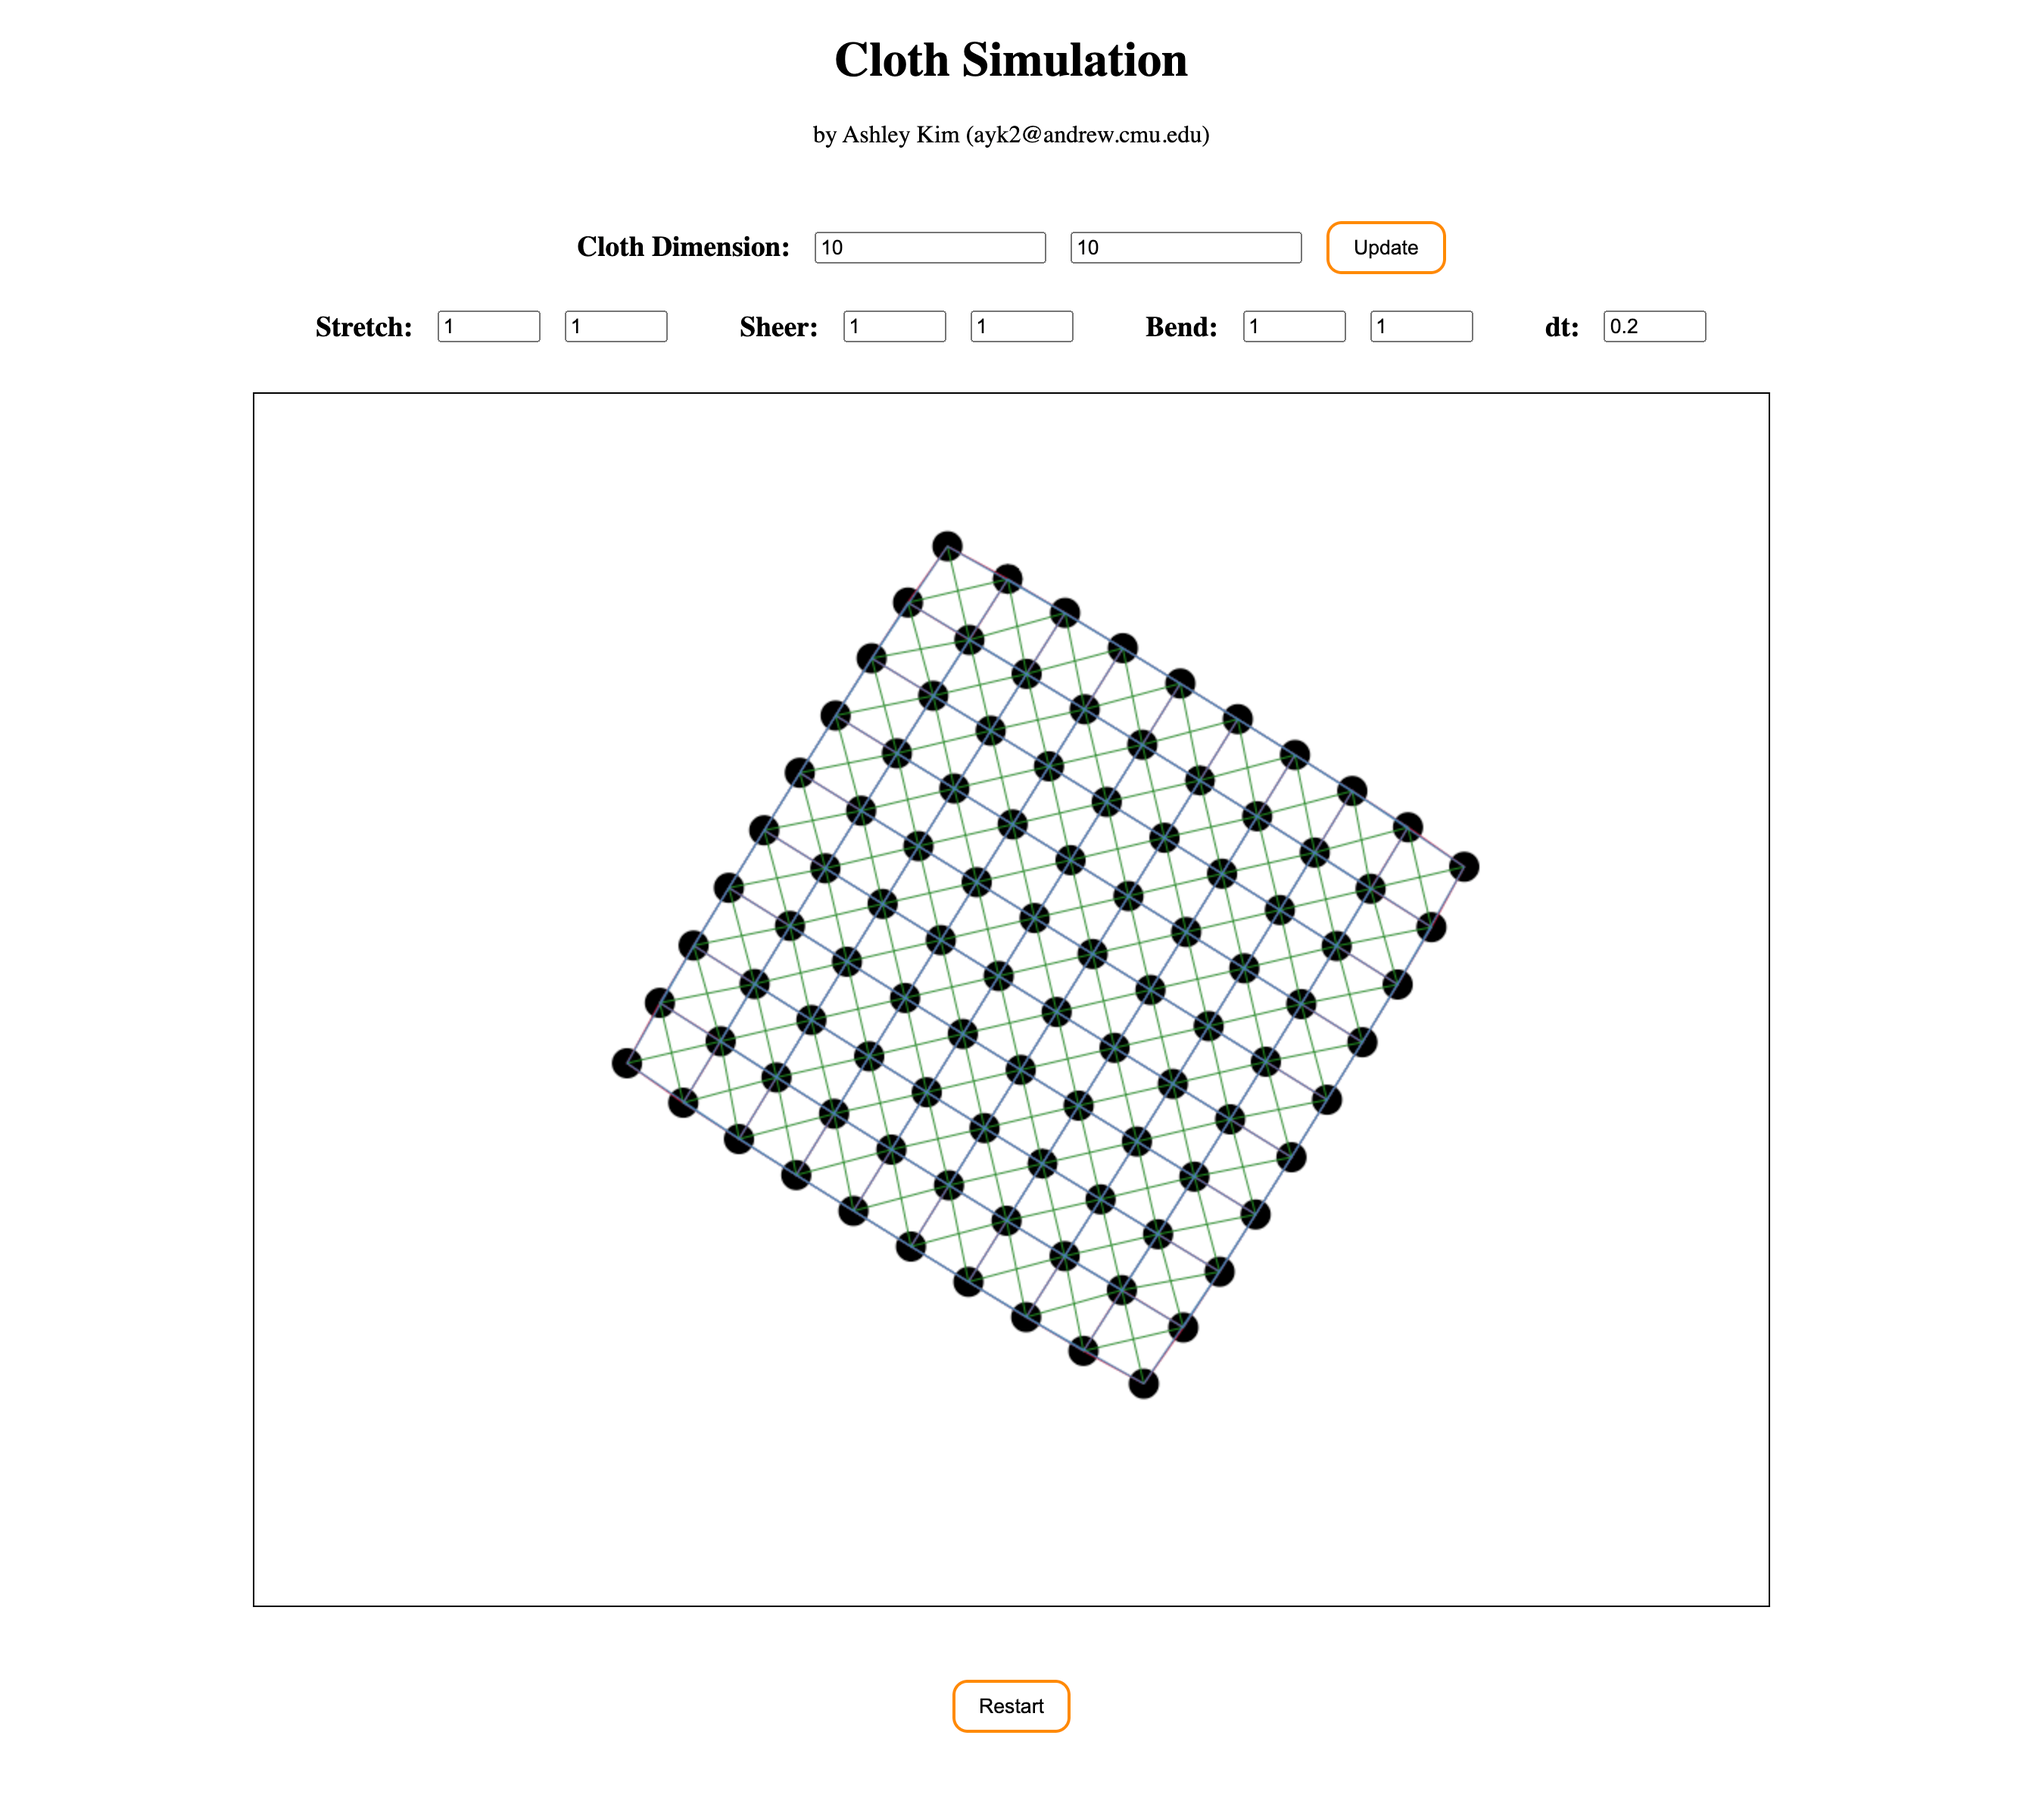
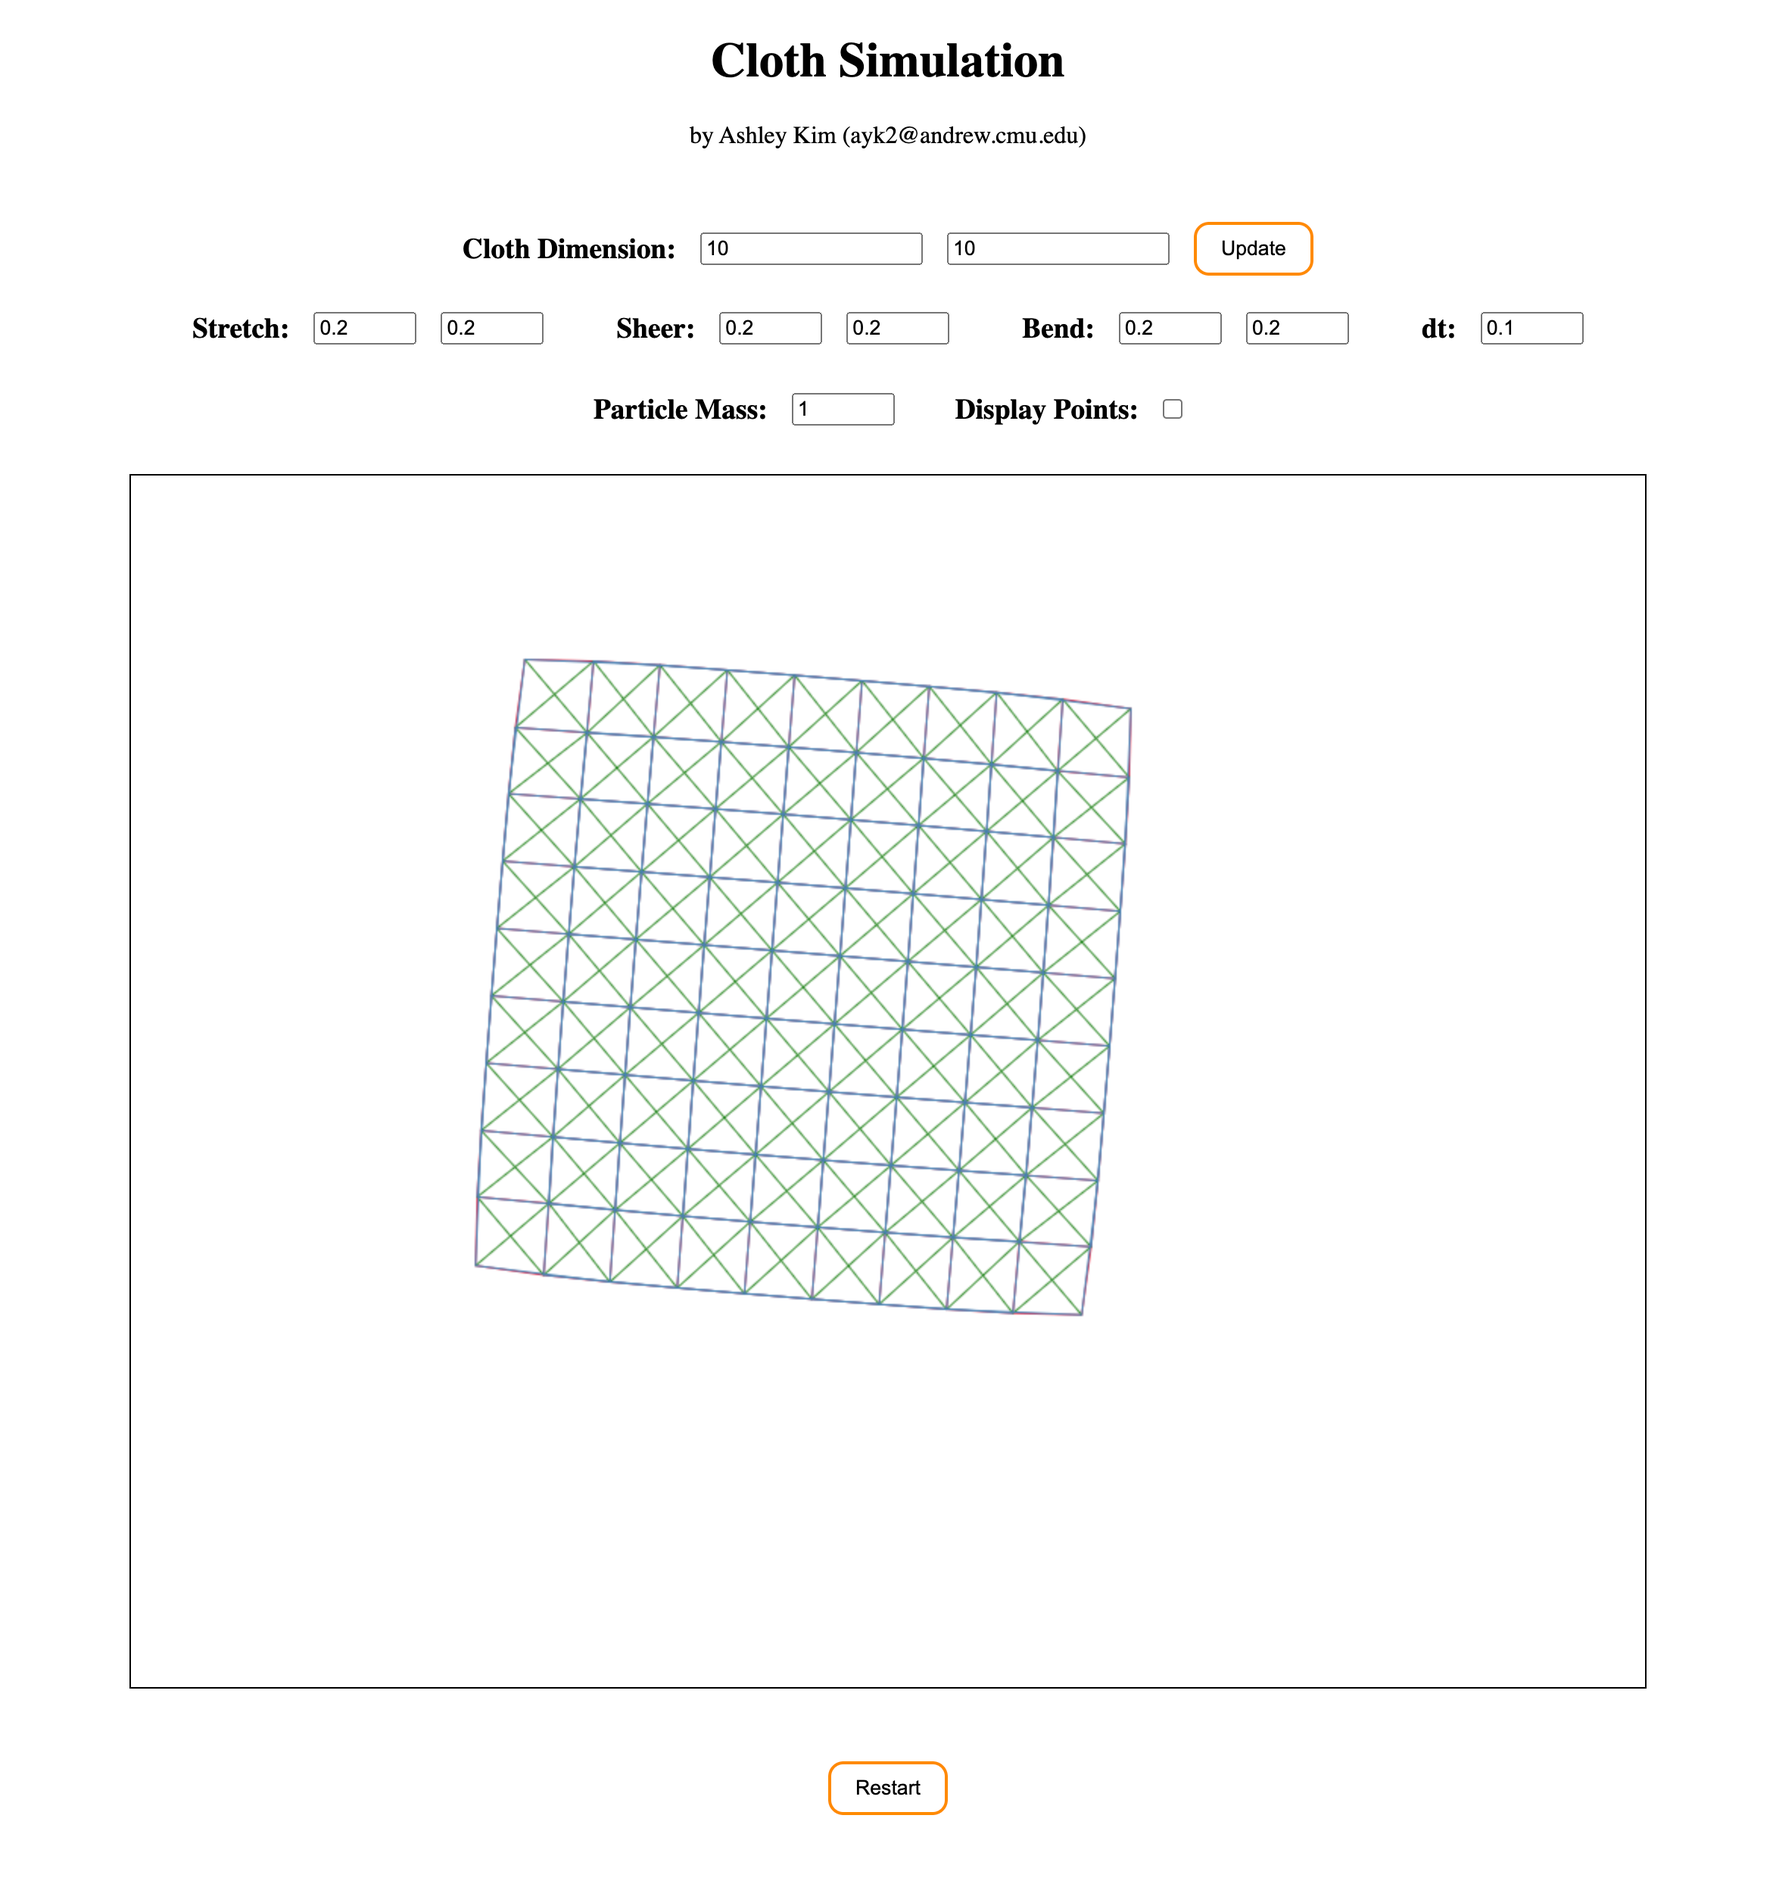
documentation update

diff --git a/ReadMe.md b/ReadMe.md
@@ -16,3 +16,48 @@ Each type of spring dampers are indicated using different colors:
 ### Interaction ###
 Users can interact with this cloth simulation by **dragging** the particle points around the canvas using the cursor. 
 The cloth will instantly follow and react to the movement defined by the user's mouse moves.
+
+Cloth model can be updated or respawn from the starting position by clicking on each corresponding buttons (update and restart). Following parameters can be controlled for each cloth model:
+
+* Number of particles in a row of the cloth
+* Number of particles in a column of the cloth
+* Spring constant (ks) of stretch springs
+* Damping factor (kd) of stretch springs
+* Spring constant (ks) of sheer springs
+* Damping factor (kd) of sheer springs
+* Spring constant (ks) of bend springs
+* Damping factor (kd) of bend springs
+* Timestep (dt) of the simulation
+* Mass of individual particle
+* Display boolean for drawing each particle as a black circle
+
+Note that update button should be pressed to generate a new cloth model with indicated constant values.
+
+
+### Example Cloth Simulations ###
+1. Thin cloth (20 x 20)
+
+**Stretch:** 0.2 0.2   |   **Sheer:** 0.2 0.2    |   **Bend:** 0.2 0.2    |   **dt:** 0.1    |   **mass:** 1
+
+![gif of thin cloth simulation, 20x20 particles](./ex1_thin.gif)
+
+
+2. Thin cloth (10 x 10)
+
+**Stretch:** 1.2 1.2    |   **Sheer:** 0.03 0.03    |   **Bend:** 1 1    |   **dt:** 0.1    |   **mass:** 7
+
+![gif of thin cloth simulation, 20x20 particles](./ex2_thin.gif)
+
+
+3. Medium cloth (10 x 10)
+
+**Stretch:** 1 1    |   **Sheer:** 0.3 0.3    |   **Bend:** 1 1    |   **dt:** 0.1    |   **mass:** 7
+
+![gif of thin cloth simulation, 20x20 particles](./ex3_heavy.gif)
+
+
+4. Heavy cloth (10 x 10)
+
+**Stretch:** 1 1    |   **Sheer:** 1 1    |   **Bend:** 0.2 0.2    |   **dt:** 0.1    |   **mass:** 30
+
+![gif of thin cloth simulation, 20x20 particles](./ex4_paper.gif)
